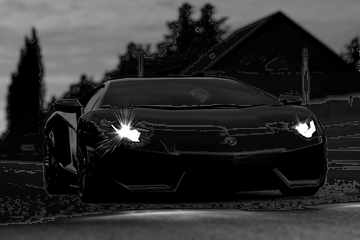
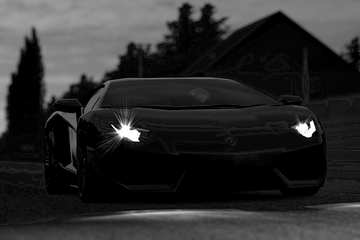
refine hw4 code and report

diff --git a/hw4-1_local_moment_smooth_shap/report/HW#4-1_106368002_report.tex b/hw4-1_local_moment_smooth_shap/report/HW#4-1_106368002_report.tex
@@ -193,9 +193,12 @@
         Discussion, 10\%)
 				\subsection*{Ans}
 				For enhancing this image, I performed it by Equation~(\ref{eqt:enhc}) which refer to textbook.
-				When local mask mean $m_{m}$ is less than full image mean $m_{G}$ times a const $k_{0}$ and 
+				When local mask mean $m_{m}$ is less than full image mean $m_{G}$ times a constant $k_{0}$ and 
 				local standard deviation $\sigma_{m}$ is between full image standard deviation $\sigma_{G}$ times
-				const $k_1$ and $k_2$, then we enhance pixel value $f(x, y)$ by const $E$.  
+				constant $k_1$ and $k_2$, then we enhance pixel value $f(x, y)$ by constant $E$. In this image, 
+				we are trying to enhance the dark part so I set $k_{0}=0.4$. Set standard deviation range by 
+				experiment. The perform range for standard deviation is $0.01\sigma_{G} \leq \sigma_{m} \leq 
+				0.4\sigma_{G}$. E constant set as 2.  
 				\begin{equation}
 					g(x, y) = 
 					\begin{cases} 
@@ -227,7 +230,7 @@
 				\subsection*{Ans}
 				For smooth the image, I performed median filter with kernel size $11 \times 11$. Setting 
 				threshold by 96\% the highest pixels value. The LPF and thresholding result show in 
-				Figure~\ref{fig:filter-masking}.
+				Figure~\ref{fig:filter-masking}. 
 				\begin{figure}[h]
 					\centering
 					\begin{subfigure}[t]{0.49\linewidth}

diff --git a/hw4-1_local_moment_smooth_shap/src/local_moment.cpp b/hw4-1_local_moment_smooth_shap/src/local_moment.cpp
@@ -169,7 +169,7 @@ int main(int argc, char **argv)
   int mask_size[] = {3, 3};
   LocalMoment local_moment(src, mask_size );
   // // cv::Mat add_pad = local_moment.addPadding(src, mask_size);
-  std::vector<cv::Mat> lo_mean_var = local_moment.getLocalMomtEnh(4.0, 0.4, 0.02, 0.4);
+  std::vector<cv::Mat> lo_mean_var = local_moment.getLocalMomtEnh(2.0, 0.4, 0.01, 0.4);
   showImage("car raw", src);
   showImage("car local mean", lo_mean_var[0]);
   HistogramEq car_sd = HistogramEq(lo_mean_var[1], 256);
